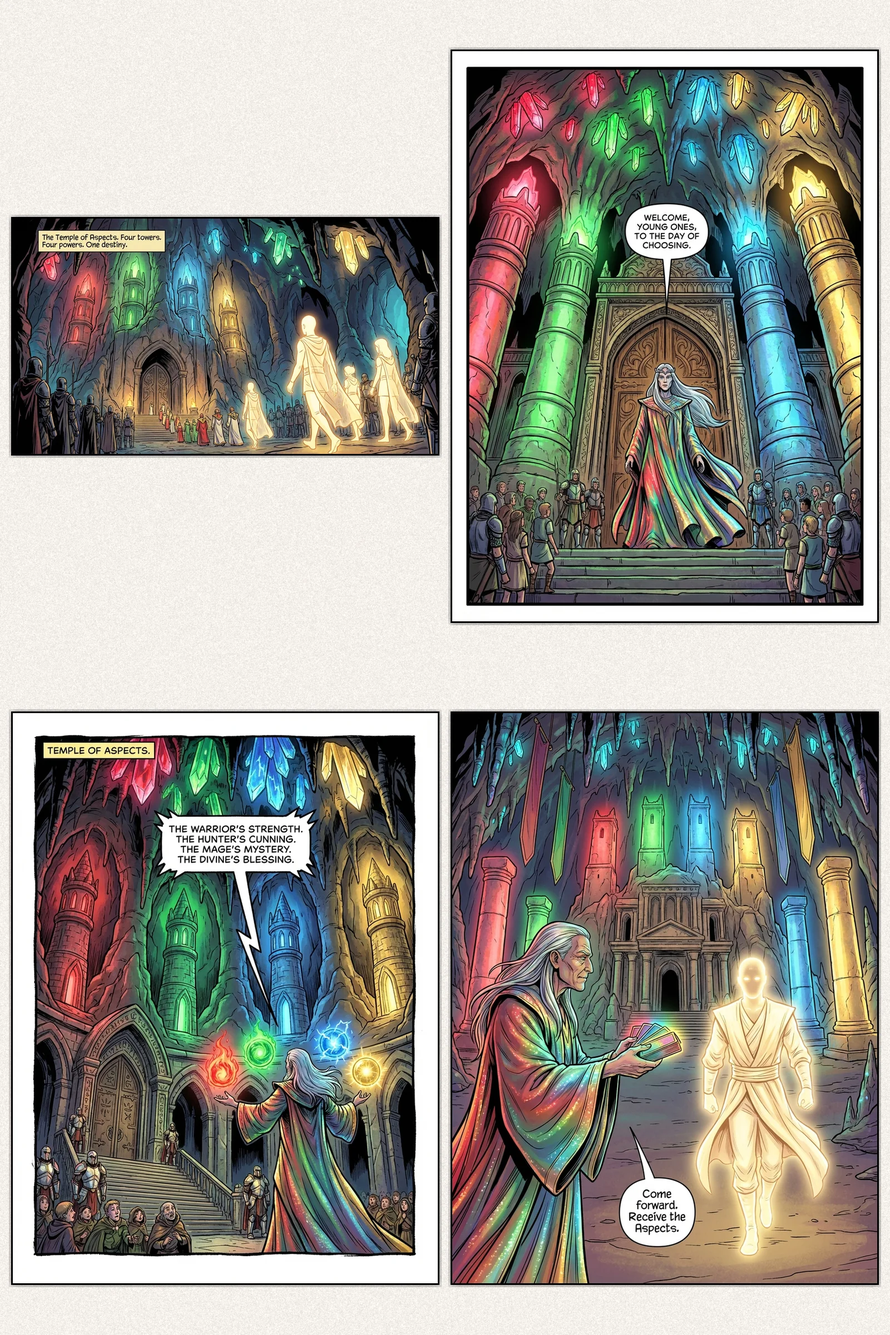
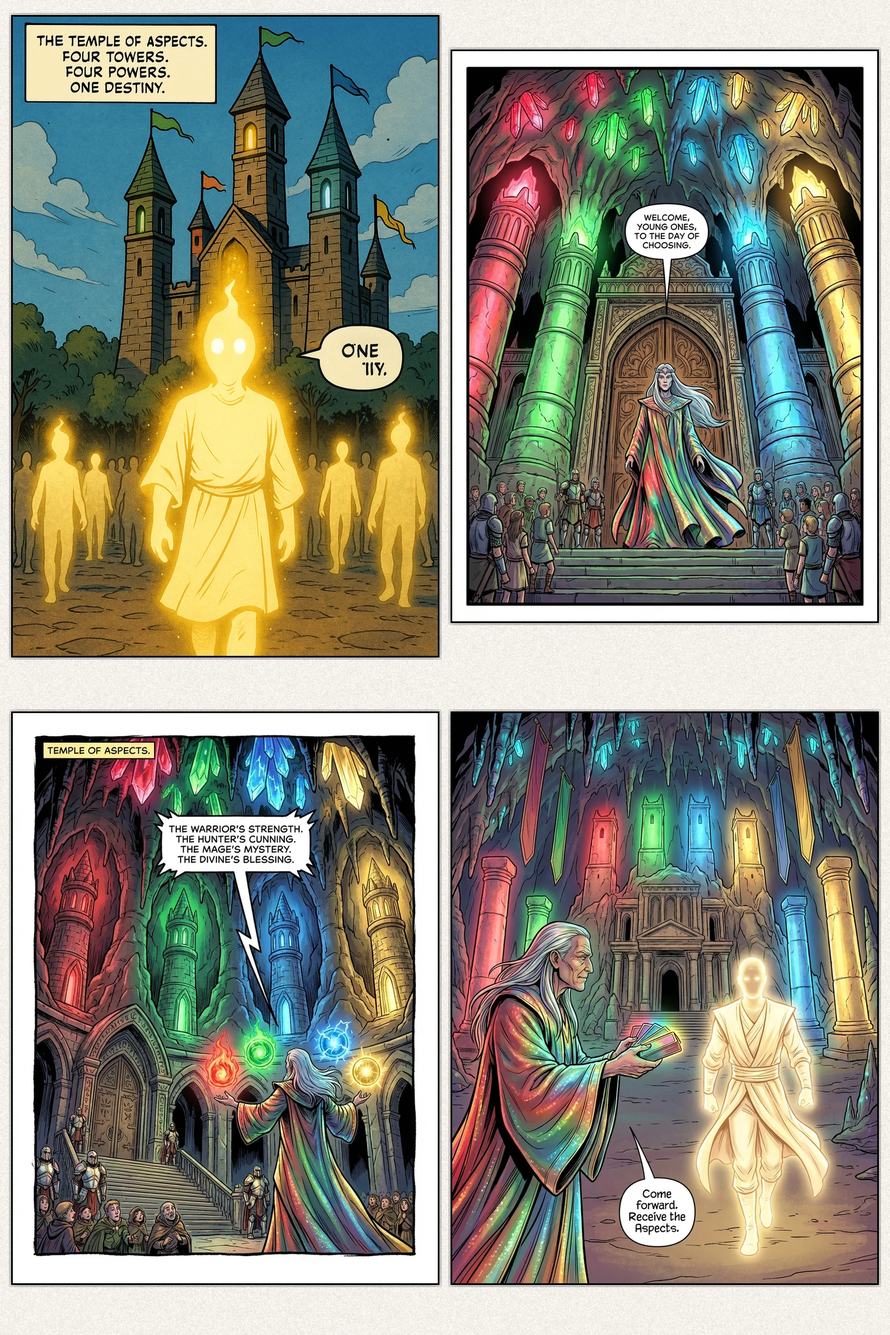
Fix panel issues and add responsive zoom controls to web reader
Panel fixes:
- Page 1: Made ethereal figure vaguely masculine with broad shoulders
- Page 3 Panel 1: Changed from wide to 3:4 vertical ratio for proper grid fit
- Page 4 Panel 3: Added visible cards (Enchant + Magic Bolt) to arcane test
- Page 6 Panel 4: Changed from wide to 3:4 vertical ratio for proper grid fit

Web reader improvements:
- Added fit-to-screen as default (page fits viewport)
- Added zoom controls: Fit, Width, 100%, 150%
- Click image to toggle between fit and 100% zoom
- Keyboard shortcuts: F (fit), W (width), 1 (100%), 2 (150%)
- Scrollable container when zoomed for panning

🤖 Generated with [Claude Code](https://claude.ai/claude-code)

Changed region(s): [[0.0, 0.0, 0.5, 0.5]]

diff --git a/docs/js/reader.js b/docs/js/reader.js
@@ -7,6 +7,7 @@ class ComicReader {
         this.pages = [];
         this.currentPageIndex = 0;
         this.viewMode = 'single'; // 'single' or 'grid'
+        this.zoomMode = 'fit-screen'; // 'fit-screen', 'fit-width', '100', '150'
         this.isLoading = false;
     }
 
@@ -53,6 +54,67 @@ class ComicReader {
         document.getElementById('view-grid').addEventListener('click', () => this.switchView('grid'));
         document.getElementById('toggle-grid-view').addEventListener('click', () => this.switchView('grid'));
         document.getElementById('close-grid').addEventListener('click', () => this.switchView('single'));
+
+        // Zoom controls
+        document.getElementById('zoom-fit').addEventListener('click', () => this.setZoom('fit-screen'));
+        document.getElementById('zoom-width').addEventListener('click', () => this.setZoom('fit-width'));
+        document.getElementById('zoom-100').addEventListener('click', () => this.setZoom('100'));
+        document.getElementById('zoom-150').addEventListener('click', () => this.setZoom('150'));
+
+        // Click image to toggle zoom
+        const pageDisplay = document.querySelector('.page-display');
+        const img = document.getElementById('main-page-image');
+        img.addEventListener('click', () => this.toggleImageZoom());
+    }
+
+    setZoom(mode) {
+        this.zoomMode = mode;
+        const pageDisplay = document.querySelector('.page-display');
+        const img = document.getElementById('main-page-image');
+        const zoomLevel = document.getElementById('zoom-level');
+
+        // Remove all zoom classes
+        pageDisplay.classList.remove('fit-screen', 'fit-width', 'fit-height', 'zoomed');
+        img.style.transform = '';
+        img.style.width = '';
+        img.style.height = '';
+
+        // Update button states
+        document.querySelectorAll('.zoom-btn').forEach(btn => btn.classList.remove('active'));
+
+        switch(mode) {
+            case 'fit-screen':
+                pageDisplay.classList.add('fit-screen');
+                document.getElementById('zoom-fit').classList.add('active');
+                zoomLevel.textContent = 'Click image to zoom';
+                break;
+            case 'fit-width':
+                pageDisplay.classList.add('fit-width');
+                document.getElementById('zoom-width').classList.add('active');
+                zoomLevel.textContent = 'Fit to width';
+                break;
+            case '100':
+                pageDisplay.classList.add('zoomed');
+                document.getElementById('zoom-100').classList.add('active');
+                zoomLevel.textContent = '100% - scroll to pan';
+                break;
+            case '150':
+                pageDisplay.classList.add('zoomed');
+                img.style.transform = 'scale(1.5)';
+                img.style.transformOrigin = 'top center';
+                document.getElementById('zoom-150').classList.add('active');
+                zoomLevel.textContent = '150% - scroll to pan';
+                break;
+        }
+    }
+
+    toggleImageZoom() {
+        // Toggle between fit-screen and 100% zoom
+        if (this.zoomMode === 'fit-screen' || this.zoomMode === 'fit-width') {
+            this.setZoom('100');
+        } else {
+            this.setZoom('fit-screen');
+        }
     }
 
     setupKeyboardShortcuts() {
@@ -87,6 +149,24 @@ class ComicReader {
                 case 'G':
                     e.preventDefault();
                     this.toggleView();
+                    break;
+                case 'f':
+                case 'F':
+                    e.preventDefault();
+                    this.setZoom('fit-screen');
+                    break;
+                case 'w':
+                case 'W':
+                    e.preventDefault();
+                    this.setZoom('fit-width');
+                    break;
+                case '1':
+                    e.preventDefault();
+                    this.setZoom('100');
+                    break;
+                case '2':
+                    e.preventDefault();
+                    this.setZoom('150');
                     break;
             }
         });

diff --git a/docs/css/reader.css b/docs/css/reader.css
@@ -118,24 +118,108 @@
     color: var(--text-secondary);
 }
 
+/* Zoom Controls */
+.zoom-controls {
+    display: flex;
+    justify-content: center;
+    gap: 10px;
+    margin-bottom: 15px;
+}
+
+.zoom-btn {
+    padding: 8px 16px;
+    font-size: 14px;
+    background: var(--bg-secondary);
+    color: var(--text-primary);
+    border: 2px solid var(--border-color);
+    border-radius: 6px;
+    cursor: pointer;
+    transition: all 0.2s;
+}
+
+.zoom-btn:hover {
+    background: var(--bg-hover);
+    border-color: var(--accent-color);
+}
+
+.zoom-btn.active {
+    background: var(--accent-color);
+    color: white;
+    border-color: var(--accent-color);
+}
+
+.zoom-level {
+    display: flex;
+    align-items: center;
+    padding: 0 12px;
+    font-size: 14px;
+    color: var(--text-secondary);
+}
+
 /* Page Display */
 .page-display {
     display: flex;
     justify-content: center;
-    align-items: center;
+    align-items: flex-start;
     margin: 20px 0;
     background: var(--bg-page);
     padding: 20px;
     border-radius: 8px;
     box-shadow: 0 4px 20px rgba(0, 0, 0, 0.3);
+    overflow: auto;
+    max-height: calc(100vh - 280px);
+    position: relative;
+}
+
+.page-display.fit-width img {
+    width: 100%;
+    height: auto;
+    max-height: none;
+}
+
+.page-display.fit-height img {
+    width: auto;
+    height: calc(100vh - 320px);
+    max-width: none;
+}
+
+.page-display.fit-screen img {
+    max-width: 100%;
+    max-height: calc(100vh - 320px);
+    width: auto;
+    height: auto;
+    object-fit: contain;
+}
+
+.page-display.zoomed {
+    cursor: grab;
+    overflow: auto;
+}
+
+.page-display.zoomed:active {
+    cursor: grabbing;
+}
+
+.page-display.zoomed img {
+    max-width: none;
+    max-height: none;
 }
 
 .page-display img {
     max-width: 100%;
+    max-height: calc(100vh - 320px);
+    width: auto;
     height: auto;
+    object-fit: contain;
     box-shadow: 0 4px 20px rgba(0, 0, 0, 0.5);
     border-radius: 4px;
     display: block;
+    cursor: zoom-in;
+    transition: transform 0.2s ease;
+}
+
+.page-display.zoomed img {
+    cursor: zoom-out;
 }
 
 /* Page Metadata */

diff --git a/docs/index.html b/docs/index.html
@@ -61,7 +61,15 @@
                 </button>
             </div>
 
-            <div class="page-display">
+            <div class="zoom-controls">
+                <button id="zoom-fit" class="zoom-btn active" title="Fit to Screen (F)">Fit</button>
+                <button id="zoom-width" class="zoom-btn" title="Fit Width (W)">Width</button>
+                <button id="zoom-100" class="zoom-btn" title="100% Zoom (1)">100%</button>
+                <button id="zoom-150" class="zoom-btn" title="150% Zoom (2)">150%</button>
+                <span class="zoom-level" id="zoom-level">Click image to zoom</span>
+            </div>
+
+            <div class="page-display fit-screen">
                 <img id="main-page-image"
                      src="images/pages/page-001.webp"
                      alt="Comic page"
@@ -80,7 +88,7 @@
             </div>
 
             <div class="keyboard-hints">
-                <p>💡 Use arrow keys or A/D to navigate • G for grid view • Home/End for first/last page</p>
+                <p>💡 Arrow keys or A/D to navigate • F/W/1/2 for zoom • G for grid • Home/End for first/last</p>
             </div>
         </div>
 
